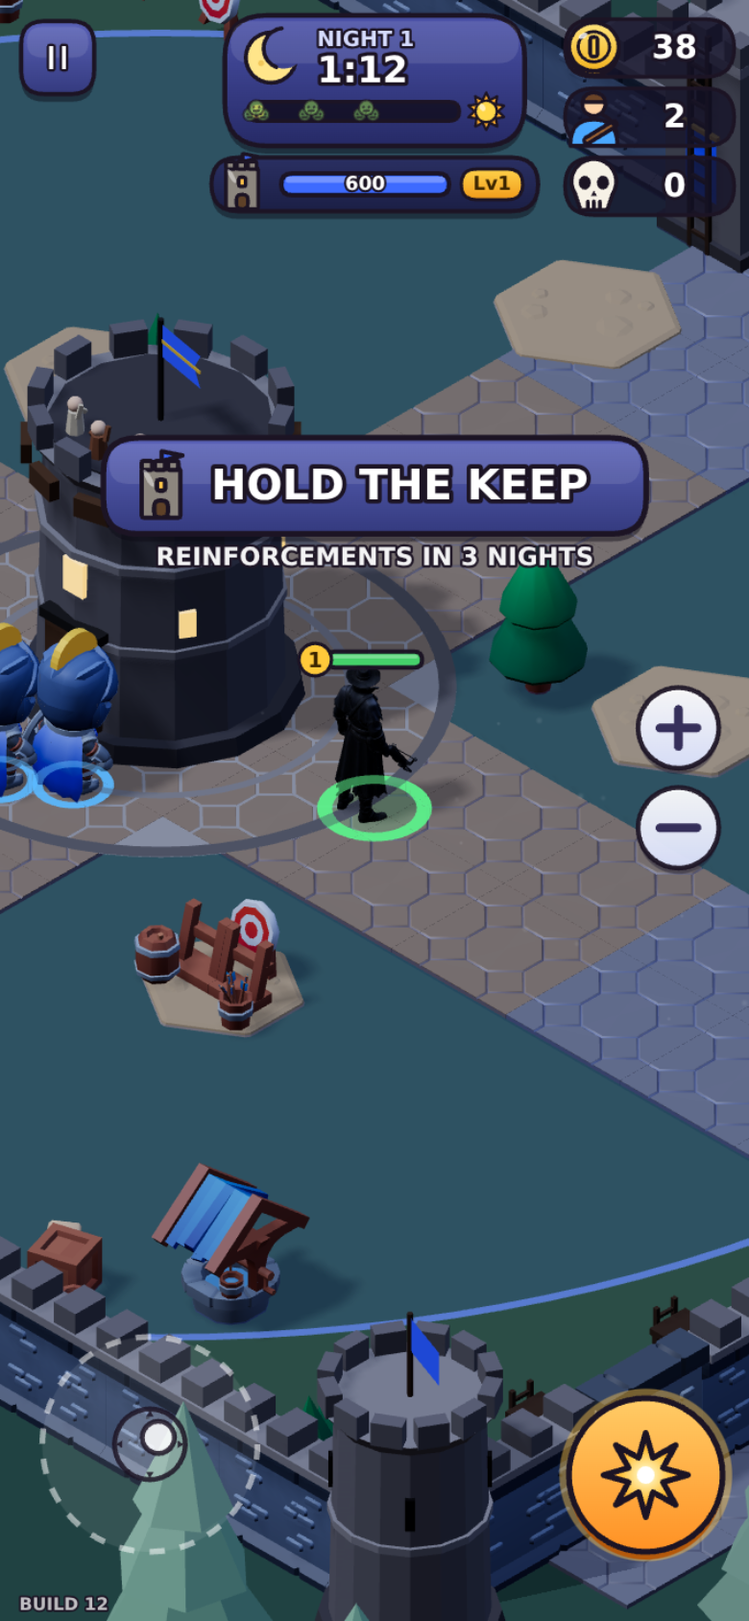
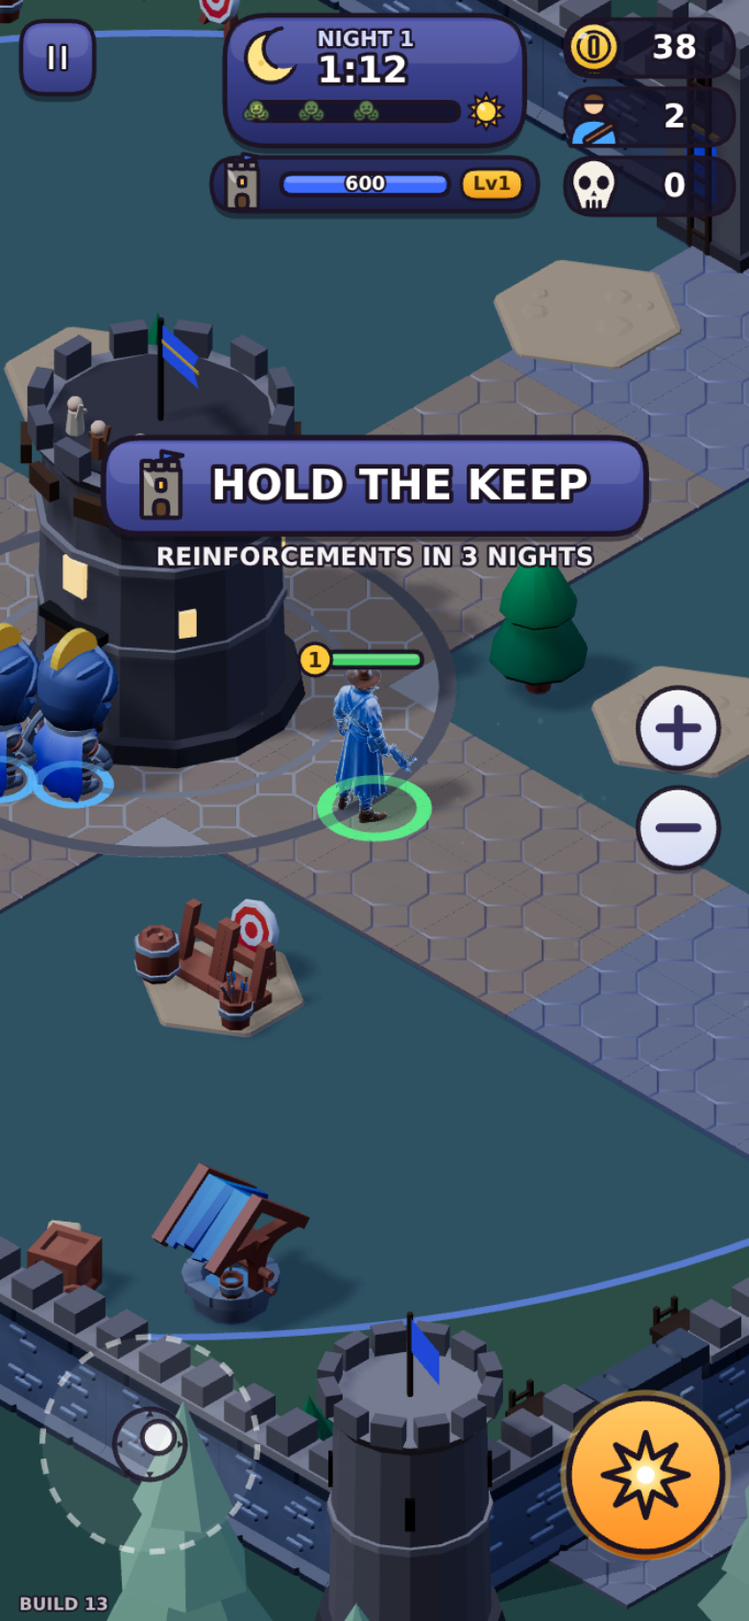
BUILD 13 (4/4): docs, QA evidence
- docs/REBUILD-ROADMAP.md: "Pass BUILD 13" (V8, V4, V9, V10; what was
  not done; QA table; evidence; open items), status paragraph, acceptance
  14 (ASSET_CHARACTER 18/18; the captain brightened by shader) and 17.
- docs/VISUAL-LAYOUT-RESEARCH.md: BUILD 13 status under the §7 table,
  notes in the header and §11.
- qa-evidence/survival-build13/: captain BUILD 12 vs 13 (night and day),
  compare-day0 / fight / overview, the plotsqa section-5 frames, the
  survival-look set, balance (identical to BUILD 12 bar timings).
- qa-evidence/survival-ftue-*: refreshed by envqa (blue captain, BUILD 13).

Gates: harness 67/67, plotsqa 21/21, map 220/220, devqa 25/25, intro,
envqa, fxshots 14/14, layoutqa, glbtest, swtest PASS; survivalshots 26
shots / 0 page errors; survival-look 0 errors; bundlecheck only the
release-signing FAIL.

Changed region(s): [[0.4308, 0.4005, 0.5538, 0.5237], [0.2462, 0.2156, 0.2769, 0.2464], [0.1231, 0.9858, 0.1538, 1.0]]

diff --git a/docs/REBUILD-ROADMAP.md b/docs/REBUILD-ROADMAP.md
@@ -1,7 +1,127 @@
 # Status Rebuild 3D & Survival Milestone 1
 
 **Pembaruan:** 2026-10-18 (Asia/Makassar)
-**Status keseluruhan: MASIH TERBUKA — bukan klaim siap rilis.** Inti rebuild dunia 3D dan loop Survival Milestone 1 sudah terimplementasi. Pada 2026-10-12 arah UI/UX dan threat model dikoreksi mengikuti feedback user; pada 2026-10-15 dilakukan pass analisis gap & bug (lihat bagian "Gap & bug pass 2026-10-15"), lalu pass progres Hunter + level bangunan (lihat "Progres Hunter & level bangunan"), lalu pass menara crossbow (lihat "Menara crossbow"), lalu pass guard yang bisa jatuh (lihat "Guard bisa jatuh"; termasuk perbaikan bug gelombang yang muncul di dalam rumah), dan seluruh gate otomatis dijalankan ulang. Setelah itu user memutuskan **game landscape only** dan meminta brainstorming + design system plan sebelum koding lagi (lihat "Arah desain & orientasi" dan `docs/DESIGN-SYSTEM-PLAN.md`; belum ada perubahan kode game untuk arah ini). Revisi 1 desain (konsep api) ditolak user. Di revisi 2 user memilih konsep **K1 "Benteng Terakhir"**, pola build **jalan ke lingkaran + BUILD**, dan nada **dark stylized**, lalu menyetujui semua rekomendasi aturan dan meminta "pastikan dunianya 3D". K1 kini **terimplementasi sebagai vertical slice** (lihat "K1 Benteng Terakhir — implementasi"); acceptance manusia/perangkat untuk K1 belum ada. Atas feedback user berikutnya, Survival kini dimainkan di **dunia benteng (bailey)** baru, bukan di dalam ruangan mansion (lihat "Dunia benteng untuk Survival"). Setelah itu kedua bookend cerita K1 dibuat: **intro sinematik** di malam pertama dan **adegan bala bantuan tiba** di fajar ke-3 (lihat "Bookend K1"); pemahaman pemain atas keduanya belum diuji. Lalu dibuat **riset UX & replay** dari review pemain (Play Store, Steam, Reddit, dan platform review lain) plus playtest bot "sebagai gamer" (lihat "Riset UX & replay" dan `docs/UX-REPLAY-RESEARCH.md`). Riset itu lalu diperdalam atas permintaan user agar tidak ada coding: v2 menambah review bintang 5, persona, peta perjalanan, dan protokol playtest; v3 menambah pemain Indonesia, analisis loop 3 lapis, dan uji HP kelas bawah. Setelah itu, atas feedback user, dibuat pass perbaikan: benteng diperkecil dan aktor diperbesar, pasukan memakai GLB (KayKit Knight, CC0), efek tembakan/damage diperkuat, kerja bangunan dibuat terlihat, dan UI dirapikan (NIGHT dipisah dari BUILD, panel fajar/akhir menghitung kontribusi). Dari rekomendasi riset, yang terbangun baru R1 sebagian, R18a, dan R19 (lihat "Perbaikan dari feedback user"). Lalu pesan "next" berikutnya dikerjakan sebagai P0 riset **"Momen akhir run"**: bintang 1–3, rekor + NEW BEST!, panel kalah "Ns TO DAWN" + satu tip dari penyebab nyata, dan MVP bangunan (R1–R4, R19; lihat "Momen akhir run"). R5 dan R6 belum. Lalu user melapor "tidak ada perubahan" (2026-10-17): dibuat **pass visual besar** — build yang benar sampai ke layar (service worker hanya di host rilis, preview tanpa cache, stempel BUILD 8), bailey setengah ukuran dengan aktor ×1,6 dan kamera lebih dekat, seluruh horde monster GLB (vertex animation texture), knight dimuat saat boot dengan helm biru berjambul, efek tembakan/damage lebih besar, ballista yang membunuh dan menandai kill-nya, koin mine di HUD, dan penanda gerbang dengan jumlah musuh (lihat "Pass visual besar"). Lalu user meminta lima perbaikan lagi (2026-10-17, "ada beberapa masih perlu di fix"): kamera dijauhkan sedikit dan bisa digeser, plot bangunan ditata rapi, bangunan memakai aset gratis yang diunduh (bukan prototipe), kartu diperkecil, dan trailer pembuka dipertahankan. Kelimanya terimplementasi di **BUILD 9** (lihat "Pass perbaikan BUILD 9"). Lalu user meminta gambar karakter manusia yang cerah dengan senjata terpisah (folder `ASSET_CHARACTER`, gambar konsep AI atas permintaan user) dan aturan gerbang yang benar. Di **BUILD 10** gerbang tertutup menahan tembakan, gerbang hanya terbuka untuk kapten, dan untuk melawan, kapten keluar ke mulut gerbang atau ke luar benteng (lihat "Pass BUILD 10"). Lalu user melapor kapten berjalan sendiri keluar benteng dan bailey terlihat terlalu padat. Di **BUILD 11** kapten tidak lagi digerakkan apa pun selain stick, gerbang hanya terbuka untuk arah stick, setiap jenis bangunan punya warna sendiri, plot terkunci dan tiang hantu disembunyikan, dan props dikurangi (lihat "Pass BUILD 11"). Lalu user melapor ukuran world dan tata letak bangunan masih sama, dan meminta riset visual dan UI/UX game sejenis tanpa coding. Riset itu ada di `docs/VISUAL-LAYOUT-RESEARCH.md` (lihat "Riset visual & tata letak"). User lalu memilih **Opsi B**, meminta peta Rise of Kingdoms dicek dulu, dan meminta kamera yang bisa diperbesar, diperkecil, dan digeser. Ketiganya dikerjakan di **BUILD 12**: bailey ×1,6 dengan distrik per fungsi dan plaza Keep, plus kamera dinamis (lihat "Pass BUILD 12"). Acceptance visual/manual di perangkat, playtest manusia, dan packaging Play masih terbuka. Hasil tiap skrip hanya berlaku untuk cakupan yang benar-benar diuji.
+**Status keseluruhan: MASIH TERBUKA — bukan klaim siap rilis.** Inti rebuild dunia 3D dan loop Survival Milestone 1 sudah terimplementasi. Pada 2026-10-12 arah UI/UX dan threat model dikoreksi mengikuti feedback user; pada 2026-10-15 dilakukan pass analisis gap & bug (lihat bagian "Gap & bug pass 2026-10-15"), lalu pass progres Hunter + level bangunan (lihat "Progres Hunter & level bangunan"), lalu pass menara crossbow (lihat "Menara crossbow"), lalu pass guard yang bisa jatuh (lihat "Guard bisa jatuh"; termasuk perbaikan bug gelombang yang muncul di dalam rumah), dan seluruh gate otomatis dijalankan ulang. Setelah itu user memutuskan **game landscape only** dan meminta brainstorming + design system plan sebelum koding lagi (lihat "Arah desain & orientasi" dan `docs/DESIGN-SYSTEM-PLAN.md`; belum ada perubahan kode game untuk arah ini). Revisi 1 desain (konsep api) ditolak user. Di revisi 2 user memilih konsep **K1 "Benteng Terakhir"**, pola build **jalan ke lingkaran + BUILD**, dan nada **dark stylized**, lalu menyetujui semua rekomendasi aturan dan meminta "pastikan dunianya 3D". K1 kini **terimplementasi sebagai vertical slice** (lihat "K1 Benteng Terakhir — implementasi"); acceptance manusia/perangkat untuk K1 belum ada. Atas feedback user berikutnya, Survival kini dimainkan di **dunia benteng (bailey)** baru, bukan di dalam ruangan mansion (lihat "Dunia benteng untuk Survival"). Setelah itu kedua bookend cerita K1 dibuat: **intro sinematik** di malam pertama dan **adegan bala bantuan tiba** di fajar ke-3 (lihat "Bookend K1"); pemahaman pemain atas keduanya belum diuji. Lalu dibuat **riset UX & replay** dari review pemain (Play Store, Steam, Reddit, dan platform review lain) plus playtest bot "sebagai gamer" (lihat "Riset UX & replay" dan `docs/UX-REPLAY-RESEARCH.md`). Riset itu lalu diperdalam atas permintaan user agar tidak ada coding: v2 menambah review bintang 5, persona, peta perjalanan, dan protokol playtest; v3 menambah pemain Indonesia, analisis loop 3 lapis, dan uji HP kelas bawah. Setelah itu, atas feedback user, dibuat pass perbaikan: benteng diperkecil dan aktor diperbesar, pasukan memakai GLB (KayKit Knight, CC0), efek tembakan/damage diperkuat, kerja bangunan dibuat terlihat, dan UI dirapikan (NIGHT dipisah dari BUILD, panel fajar/akhir menghitung kontribusi). Dari rekomendasi riset, yang terbangun baru R1 sebagian, R18a, dan R19 (lihat "Perbaikan dari feedback user"). Lalu pesan "next" berikutnya dikerjakan sebagai P0 riset **"Momen akhir run"**: bintang 1–3, rekor + NEW BEST!, panel kalah "Ns TO DAWN" + satu tip dari penyebab nyata, dan MVP bangunan (R1–R4, R19; lihat "Momen akhir run"). R5 dan R6 belum. Lalu user melapor "tidak ada perubahan" (2026-10-17): dibuat **pass visual besar** — build yang benar sampai ke layar (service worker hanya di host rilis, preview tanpa cache, stempel BUILD 8), bailey setengah ukuran dengan aktor ×1,6 dan kamera lebih dekat, seluruh horde monster GLB (vertex animation texture), knight dimuat saat boot dengan helm biru berjambul, efek tembakan/damage lebih besar, ballista yang membunuh dan menandai kill-nya, koin mine di HUD, dan penanda gerbang dengan jumlah musuh (lihat "Pass visual besar"). Lalu user meminta lima perbaikan lagi (2026-10-17, "ada beberapa masih perlu di fix"): kamera dijauhkan sedikit dan bisa digeser, plot bangunan ditata rapi, bangunan memakai aset gratis yang diunduh (bukan prototipe), kartu diperkecil, dan trailer pembuka dipertahankan. Kelimanya terimplementasi di **BUILD 9** (lihat "Pass perbaikan BUILD 9"). Lalu user meminta gambar karakter manusia yang cerah dengan senjata terpisah (folder `ASSET_CHARACTER`, gambar konsep AI atas permintaan user) dan aturan gerbang yang benar. Di **BUILD 10** gerbang tertutup menahan tembakan, gerbang hanya terbuka untuk kapten, dan untuk melawan, kapten keluar ke mulut gerbang atau ke luar benteng (lihat "Pass BUILD 10"). Lalu user melapor kapten berjalan sendiri keluar benteng dan bailey terlihat terlalu padat. Di **BUILD 11** kapten tidak lagi digerakkan apa pun selain stick, gerbang hanya terbuka untuk arah stick, setiap jenis bangunan punya warna sendiri, plot terkunci dan tiang hantu disembunyikan, dan props dikurangi (lihat "Pass BUILD 11"). Lalu user melapor ukuran world dan tata letak bangunan masih sama, dan meminta riset visual dan UI/UX game sejenis tanpa coding. Riset itu ada di `docs/VISUAL-LAYOUT-RESEARCH.md` (lihat "Riset visual & tata letak"). User lalu memilih **Opsi B**, meminta peta Rise of Kingdoms dicek dulu, dan meminta kamera yang bisa diperbesar, diperkecil, dan digeser. Ketiganya dikerjakan di **BUILD 12**: bailey ×1,6 dengan distrik per fungsi dan plaza Keep, plus kamera dinamis (lihat "Pass BUILD 12"). Lalu user menulis "lanjut": 7 senjata `ASSET_CHARACTER` yang tersisa dibuat (kini 18/18), dan empat usulan "murah tapi terlihat jelas" dari riset §7 dikerjakan di **BUILD 13**: kapten terang (V8), label hanya saat dekat (V4), angka damage kecil yang digabung (V9), dan gerbang malam ini terlihat di siang hari (V10) (lihat "Pass BUILD 13"). Acceptance visual/manual di perangkat, playtest manusia, dan packaging Play masih terbuka. Hasil tiap skrip hanya berlaku untuk cakupan yang benar-benar diuji.
+
+## Pass BUILD 13 — kapten terang, label dekat, angka damage, gerbang malam ini (2026-10-18)
+
+**Pesan user:** "lanjut". Saya baca sebagai: lanjutkan pekerjaan yang tertunda. Keputusan BUILD 12 yang saya ambil sendiri (riset §11.4) tidak ditolak, jadi tetap dipakai.
+
+Stempel di layar kini **BUILD 13**, service worker `duskhold-v13`.
+
+Pekerjaan ini terdiri dari dua bagian:
+1. **ASSET_CHARACTER:** 7 senjata yang tersisa sudah dibuat: kapak undead, palu Breaker, pedang Night Lord, crossbow kapten Lv2/Lv3, dan crossbow guard Lv2/Lv3. Folder kini lengkap **18/18** (6 karakter + 12 senjata), commit `e374747`. Semuanya tetap gambar konsep AI; belum ada GLB.
+2. **BUILD 13:** empat usulan "murah tapi terlihat jelas" dari riset §7, yaitu V8, V4, V9, dan V10.
+
+### V8 — kapten paling terang
+
+Tekstur GLB kapten (Tripo) hampir hitam. Atlas warnanya (2048×2048) punya luminansi rata-rata 0,107 dan 81 % pikselnya di bawah 0,15 (skala 0–1). Atlas itu juga terdiri dari ribuan pulau UV kecil, jadi tidak bisa diwarnai per bagian.
+
+Byte GLB tidak diubah. Sebagai gantinya, shader kapten memetakan terang-gelap teksturnya sendiri ke palet `ASSET_CHARACTER` opsi 1:
+
+| Bagian | Warna |
+|---|---|
+| Tabard/mantel | navy → biru kerajaan `#216aad` → biru langit |
+| Topi dan sepatu bot (dipilih dari tinggi badan di bind pose) | kulit cokelat `#68412d` |
+| Bagian tekstur yang hangat | emas `#e6b459`; di wajah menjadi warna kulit |
+| Rim light | biru-putih, lebih kuat di malam |
+
+Tampilannya dipasang per fase lewat `CAPTAIN_LOOK` (siang/malam), hanya di mode Survival. Di mode lain, termasuk `?legacy=1`, tampilan ini mati.
+
+**Hasil** (rata-rata luminansi piksel kapten saja, 0–255; frame dengan kapten dikurangi frame tanpa kapten; `survival-plotsqa`, 844×390, zoom 1,6×):
+
+| Fase | Tekstur asli (BUILD 12) | BUILD 13 |
+|---|---|---|
+| Malam | 19,5 | 86,0 |
+| Siang | 27,9 | 88,0 |
+
+Versi pertama shader (semua biru terang, rim kuat) saya tolak sendiri setelah melihat screenshot-nya: kapten tampak seperti hantu/hologram biru. Versi yang dipakai menjaga bayangan tetap gelap dan memberi warna kulit cokelat pada topi dan sepatu bot.
+
+File: `valen3d.js` (`setLook`, `lookState`), `world3d.js` (`CAPTAIN_LOOK`, `_syncLighting`, diagnostics `captainLook`).
+
+### V4 — label hanya saat dekat
+
+| Sebelum (BUILD 11–12) | Sekarang |
+|---|---|
+| 3 lingkaran kosong terdekat selalu menampilkan nama, sejauh apa pun | Nama **+ biaya** (merah kalau kurang) hanya untuk lingkaran ≤ 380 px dari kapten (± satu lingkaran). **Maksimal 2** sekaligus. Lingkaran lain hanya ikon di atas warnanya |
+| Pill status (emas / kayu / prajurit / kill) di semua bangunan di layar | Hanya untuk bangunan ≤ 560 px dari kapten, atau bangunan tempat kapten berdiri |
+| Label sama di semua zoom | Di zoom overview (≤ 0,62×) hanya ikon, tanpa nama dan pill |
+
+Panah upgrade tetap tampil di semua bangunan yang bisa di-upgrade.
+
+Tombol "lihat semua" dari riset tidak dibuat. Zoom overview (pinch keluar) sudah memperlihatkan semua titik sebagai ikon, dan pola FTUE yang dipilih user meminta tanpa tombol tambahan.
+
+File: `ui/survival.js` (`PLOT_NAME_REACH`, `PLOT_NAMES_MAX`, `STATUS_REACH`, `OVERVIEW_ZOOM`, `drawPlotLabel`, `drawDayWorldLayer`).
+
+### V9 — angka damage lebih kecil, di atas kepala, digabung
+
+| | BUILD 12 | BUILD 13 |
+|---|---|---|
+| Ukuran kill / heavy / di wilayah panji / biasa | 40 / 32 / 28 / 23 px | **26 / 22 / 18 / 16 px** |
+| Posisi | di dada | **di atas kepala** (tinggi dada ×1,55), ikut bergerak bersama tubuhnya |
+| Pukulan beruntun | satu angka per pukulan | pukulan ke tubuh yang sama dalam **0,38 detik** dijumlah jadi satu angka. Angka itu membesar lagi sesaat ("pop") dan memakai grade terkuat (kill > heavy > biasa) |
+
+Angka yang muncul di atas angka lain atau di atas bar HP kapten naik satu langkah (maksimal 3 langkah) dan tetap di langkah itu, jadi kerumunan di gerbang terbaca sebagai tumpukan pendek, bukan angka yang saling menimpa.
+
+Efek hit (kilat, cincin, percikan) tidak diubah. Jumlah angka acak yang diambil per pukulan juga tetap sama, jadi run balance ber-seed identik dengan BUILD 12.
+
+File: `game/survival.js` (`DMG_NUMBER`, `pushDamageNumber`, `_updateFx`), `ui/survival.js` (`drawFloaters`, `DMG_LANES`).
+
+### V10 — gerbang malam ini terlihat di siang hari
+
+`tonightPlan()` menghitung serangan malam berikutnya per gerbang. Rencananya sama dengan yang dipakai `updateWaves()`: gelombang swarm 1–3, 2 Individual, dan Breaker di gerbang utama (1 mulai malam 2, 2 di malam 3).
+
+Di siang hari:
+- gerbang yang ada di layar mendapat **badge merah** di atasnya: 🌙, ikon swarm ×N, ikon Individual, dan ikon Breaker;
+- gerbang di luar layar ditunjuk dengan **penunjuk merah di tepi layar**, lengkap dengan jumlah totalnya;
+- keduanya tidak tampil di bawah panel hadiah fajar.
+
+Contoh malam 2:
+- gerbang barat: 24;
+- postern NW: 27;
+- gerbang selatan: 27 + 1 Individual + 1 Breaker;
+- gerbang utara: 1 Individual.
+
+File: `game/survival.js` (`tonightPlan`), `ui/survival.js` (`drawTonightBadge`, `drawDayWorldLayer`).
+
+### Yang tidak dikerjakan di pass ini
+
+- **V2** (ballista tidak lagi merah): ballista tetap merah, sesuai keputusan BUILD 12 (riset §11.4).
+- **V5** (diet HUD): HUD siang sudah ringkas sejak BUILD 9–12.
+- **V1, V3, V6, V7**: butuh pass aset atau tata letak.
+- **ASSET_CHARACTER:** konversi gambar → GLB, socket senjata di tangan, dan upgrade senjata pasukan di game.
+
+### QA yang dijalankan (BUILD 13)
+
+| Perintah | Hasil |
+|---|---|
+| `node tools/harness.mjs` | **67/67 PASS** (+2 cek baru: V10 ramalan siang = spawn malam 2 dan 3 per gerbang; V9 tiga pukulan dalam 0,4 detik = satu angka "30", mulai di atas kepala, ikut tubuhnya) |
+| `node tools/survival-plotsqa.mjs` | **21/21 PASS** (+3 cek baru: V8 piksel kapten malam 86,0 vs tekstur asli 19,5 dan siang 88,0 vs 27,9; V4 tiga lingkaran dalam jangkauan → 2 nama, overview → 0 nama dan 0 pill; V10 keempat gerbang malam 2 ditandai, urutannya sama dengan rencana) |
+| `node tools/survival-map.mjs` | **220/220** (tata letak tidak berubah) |
+| `node tools/survival-devqa.mjs` | **25/25 PASS** |
+| `node tools/survival-intro.mjs` | **PASS** |
+| `node tools/envqa.mjs --mode=3d-smoke` | **PASS** (bukti FTUE `qa-evidence/survival-ftue-*` ikut diperbarui: kapten biru, stempel BUILD 13) |
+| `node tools/survival-fxshots.mjs` | **14/14 PASS** |
+
+Setelah angka damage dibuat bertumpuk (perubahan terakhir, hanya kode gambar), `devqa`, `envqa`, dan `fxshots` dijalankan lagi dan hasilnya tetap sama.
+| `node tools/layoutqa.mjs`, `glbtest.mjs`, `swtest.mjs` | **PASS** (`swtest` dengan `duskhold-v13`) |
+| `node tools/survivalshots.mjs --landscape` | 26 shot, 0 page error |
+| `node tools/survival-look.mjs` | 0 error (`day0`, `day`, `build`, `gate`, `fight`, `overview`, `closeup`) |
+| `node tools/bundlecheck.mjs` | hanya 1 FAIL lama (fingerprint signing release, menunggu kunci upload) |
+| `node tools/survival-balance.mjs --seeds=5 --duration=72` | **sama persis dengan BUILD 12** di 30 baris run dan SUMMARY (selain waktu proses): idle 0/5, active 0/5, builder 5/5 ★★★, tower-builder 5/5 ★★★, hunter-builder 5/5 ★★★, keep-builder 0/5. Aturan main tidak berubah |
+
+**Bukti** (`qa-evidence/survival-build13/`):
+- `captain-compare.png`: kapten BUILD 12 vs BUILD 13, malam dan siang, frame yang sama;
+- `compare-day0.png`, `compare-fight.png`, `compare-overview.png`: BUILD 12 vs BUILD 13 dari skrip `survival-look` di momen yang sama;
+- `captain-day.png`, `names-near.png` (2 nama + 1 ikon di distrik tambang), `overview-tonight.png` (badge gerbang malam ini): dari `survival-plotsqa`;
+- `day0.png`, `day.png`, `build.png`, `fight.png`, `overview.png`, `closeup.png`;
+- `balance-5seed-72s.txt`.
+
+**Belum / terbuka:**
+- Penilaian manusia di HP atas keempat perubahan: apakah kapten terbaca tanpa terlihat seperti hantu atau hologram, apakah nama yang hanya muncul saat dekat masih cukup untuk mengenali bangunan, apakah angka yang lebih kecil masih terasa kuat, dan apakah pemain bisa menyebut gerbang malam ini sebelum menekan NIGHT (uji riset §8).
+- Di layar landscape 844×390, penunjuk merah gerbang di tepi kiri bawah bisa berdekatan dengan cincin stick; di zoom overview penunjuk atas bisa menempel pada chip CAPTAIN.
+- Angka damage yang naik langkah bisa masuk ke bawah pill NIGHT saat gerbang ada di tepi atas layar.
+- Kapten masih model Tripo yang sama. Shader hanya mewarnai ulang teksturnya; detail seperti sabuk atau sarung tangan tidak bisa diberi warna sendiri.
 
 ## Pass BUILD 12 — tata letak Opsi B + kamera dinamis (2026-10-18)
 
@@ -92,7 +212,7 @@ Denah: `qa-evidence/survival-build12/plan.png`.
 - Jalan ke gerbang ±60 % lebih jauh. Bot tetap menang, tetapi apakah terasa lambat bagi pemain belum diuji. Lari +15 % disiapkan sebagai opsi, tidak dipasang.
 - Frame time zoom terjauh (seluruh bailey + hutan di layar) di HP kelas bawah belum diukur. Di Chromium headless (SwiftShader) 1 frame ±5–6 ms di kedua zoom.
 - Keputusan §9 yang saya ambil sendiri (×1,6, ballista di halaman, tanpa rumah warga, panji radius, warna V2 tetap) menunggu konfirmasi user (riset §11.4).
-- Kapten di game masih gelap (siluet hitam). Ini sudah begitu sejak BUILD 8 dan tidak diubah di pass ini (lihat acceptance 14).
+- Kapten di game masih gelap (siluet hitam). Ini sudah begitu sejak BUILD 8 dan tidak diubah di pass ini (lihat acceptance 14). *(Diperbarui: dicerahkan di BUILD 13, V8.)*
 
 ## Riset visual & tata letak (2026-10-17) — riset saja, belum ada kode
 
@@ -1093,9 +1213,10 @@ Ini screenshot checkpoint, bukan rekaman, dan bukan review di perangkat fisik.
 11. **Pass visual besar 2026-10-17 ("tidak ada perubahan"):** terimplementasi dan lolos gate otomatis (lihat "Pass visual besar"). Belum: konfirmasi dari user bahwa layar menampilkan "BUILD 8" dan kelima poin kini terlihat, penilaian rasa (ukuran benteng vs aktor, horde GLB, efek, kerja bangunan, penanda gerbang), dan frame time horde instanced + knight di HP kelas bawah.
 12. **Pass perbaikan BUILD 9 2026-10-17 (kamera, plot rapi, aset bangunan, kartu, trailer):** terimplementasi dan lolos gate otomatis (lihat "Pass perbaikan BUILD 9"). Belum: konfirmasi dari user bahwa layar menampilkan "BUILD 9"; penilaian di HP nyata atas jarak kamera dan rasa geser/pinch, kerapian denah, kecocokan aset KayKit dengan gaya benteng, ukuran dock, dan apakah intro tiap run mengganggu; frame time model kit di HP kelas bawah.
 13. **Pass BUILD 10 2026-10-17 (aturan gerbang):** gerbang tertutup menahan tembakan, gerbang terbuka hanya untuk kapten, musuh mengejar di luar, istirahat di balik tembok, guard di menara gerbang, dan tembakan melengkung lewat tembok. Semuanya terimplementasi dan lolos gate otomatis (lihat "Pass BUILD 10"). Belum: konfirmasi user bahwa layar menampilkan "BUILD 10"; rasa keluar benteng dan ritme gerbang/istirahat di HP nyata; keterbacaan guard di puncak menara.
-14. **ASSET_CHARACTER 2026-10-17:** 11 dari 18 gambar konsep sudah dibuat (6 karakter + 5 senjata). Masih terbuka: 7 senjata yang menyusul, konversi gambar → GLB, socket senjata di tangan, upgrade senjata pasukan di game, dan penggantian kapten gelap di game.
+14. **ASSET_CHARACTER 2026-10-17/18:** 18 dari 18 gambar konsep sudah dibuat (6 karakter + 12 senjata; 7 senjata terakhir di commit `e374747`). Kapten gelap di game kini dicerahkan lewat shader dengan palet opsi 1 (BUILD 13, V8). Modelnya tidak diganti. Masih terbuka: konversi gambar → GLB, socket senjata di tangan, upgrade senjata pasukan di game, dan penilaian manusia atas kecocokan gambar dengan gaya game.
 15. **Pass BUILD 11 2026-10-17 (bug kapten + bailey padat):** dorongan tanpa input dihapus, gerbang hanya terbuka untuk arah stick, warna per bangunan, plot terkunci dan tiang hantu disembunyikan, label nama di pad, props dikurangi. Semuanya lolos gate otomatis (lihat "Pass BUILD 11"). Belum: konfirmasi user bahwa bug tidak muncul lagi di perangkatnya dan layar menampilkan "BUILD 11"; penilaian manusia atas kepadatan dan keterbacaan bangunan.
 16. **Pass BUILD 12 2026-10-18 (Opsi B + kamera dinamis):** bailey ×1,6 dengan distrik per fungsi, plaza Keep, wilayah panji berupa radius, dekor distrik, dan kamera zoom 0,42–1,6× (pinch di mana saja, tombol +/−, roda, keyboard, geser + lemparan). Semuanya lolos gate otomatis (lihat "Pass BUILD 12"). Belum: konfirmasi user bahwa layar menampilkan "BUILD 12"; penilaian manusia atas kelapangan, keterbacaan distrik, jarak jalan, dan rasa kamera di HP nyata; frame time zoom terjauh di HP kelas bawah; konfirmasi keputusan §9 yang diambil sendiri.
+17. **Pass BUILD 13 2026-10-18 (V8, V4, V9, V10):** kapten terang, label hanya saat dekat, angka damage kecil yang digabung, dan gerbang malam ini terlihat di siang hari. Semuanya lolos gate otomatis (lihat "Pass BUILD 13"). Belum: konfirmasi user bahwa layar menampilkan "BUILD 13"; penilaian manusia apakah kapten kini terbaca tanpa terlihat seperti hantu atau hologram, apakah label dekat cukup untuk mengenali bangunan, apakah angka kecil masih terasa kuat, dan apakah pemain bisa menyebut gerbang malam ini sebelum menekan NIGHT (uji riset §8).
 
 ## Aturan laporan
 

diff --git a/docs/VISUAL-LAYOUT-RESEARCH.md b/docs/VISUAL-LAYOUT-RESEARCH.md
@@ -4,6 +4,8 @@
 
 **Pembaruan 2026-10-18:** user memilih **Opsi B** dan meminta peta Rise of Kingdoms dicek dulu, plus kamera yang bisa diperbesar, diperkecil, dan digeser. Hasil cek RoK ada di **§11**. Opsi B + kamera dinamis dikerjakan di **BUILD 12** (lihat `docs/REBUILD-ROADMAP.md`, "Pass BUILD 12"). Isi §0–§10 di bawah ini dibiarkan seperti saat riset (angka "sekarang" = BUILD 11).
 
+**Pembaruan 2026-10-18 (2):** user menulis "lanjut". **V4, V8, V9, dan V10** dari §7 dikerjakan di **BUILD 13** (lihat `docs/REBUILD-ROADMAP.md`, "Pass BUILD 13", dan status di bawah tabel §7). V1, V2, V3, V5, V6, dan V7 belum.
+
 Permintaan user setelah BUILD 11: *"masih sama ukuran world nya, tata letak bangunan masih sama, coba kamu research dulu visual game building dan combat seperti ini jangan coding dulu, cari detail ui ux dan visual nya, bandingkan dengan game ini"*.
 
 Usulan di §6–§7 **belum dikerjakan**. Pengerjaan menunggu pilihan user (§9).
@@ -436,6 +438,18 @@ Keep berdiri di plaza batu r230. Empat jalan selebar 220 px menuju gerbang; seka
 
 **Prioritas murah tapi terlihat jelas:** V2, V4, V5, V8, V9. **Prioritas yang menyatu dengan opsi tata letak:** V6, V7, V10. V1 dan V3 perlu pass aset (KayKit punya variasi warna dan prop).
 
+**Status (BUILD 13, 2026-10-18):**
+
+| # | Status | Catatan |
+|---|---|---|
+| V8 | dikerjakan | Shader memetakan terang-gelap tekstur kapten ke palet opsi 1: tabard biru, topi + bot cokelat, rim light biru. Luminansi piksel kapten malam 19,5 → 86,0 dan siang 27,9 → 88,0 (dari 255). GLB tidak diubah |
+| V4 | dikerjakan | Nama + biaya hanya ≤ 380 px dari kapten, maksimal 2. Pill status ≤ 560 px. Zoom overview hanya ikon. Tombol "lihat semua" diganti zoom overview |
+| V9 | dikerjakan | Ukuran 26/22/18/16 px (dulu 40/32/28/23). Mulai di atas kepala dan ikut tubuhnya. Pukulan dalam 0,38 detik digabung. Angka yang menimpa angka lain naik satu langkah (maks. 3) |
+| V10 | dikerjakan (bagian info gelombang) | Badge merah per gerbang (swarm ×N, Individual, Breaker) atau penunjuk di tepi layar, di siang hari. Overview pinch-out sudah ada sejak BUILD 12 |
+| V2 | tidak | Ballista tetap merah (keputusan §11.4) |
+| V5 | tidak | HUD siang sudah ringkas |
+| V1, V3, V6, V7 | belum | Butuh pass aset atau tata letak |
+
 ---
 
 ## 8. Cara menilai setelah dikerjakan (usulan acceptance)
@@ -569,7 +583,7 @@ Tautan ada di §11.5.
 | — | Zoom pilihan pemain disimpan (`save.survival.camZoom`) | `survival.js` |
 
 **Yang tidak diambil:**
-- **Layer UI per level zoom:** label tetap sama di semua zoom. Ini kandidat lanjutan, bersama V4/V5 (label hanya saat dekat).
+- **Layer UI per level zoom:** label tetap sama di semua zoom. Ini kandidat lanjutan, bersama V4/V5 (label hanya saat dekat). *(Diperbarui: BUILD 13 menambah satu layer. Di zoom overview hanya ikon yang tampil.)*
 - **Menu radial zoom siap pakai:** diganti langkah ×1,35 per tap atau tombol.
 - **Kota yang bebas disusun:** posisi plot tetap, karena posisi = fungsi + jarak gerbang.
 - **Rumah warga:** tidak dibuat. Warna rumah KayKit (biru/hijau/merah/kuning) bentrok dengan kode warna bangunan, dan dalam cerita K1 warga berlindung di dalam Keep.
@@ -582,7 +596,7 @@ User hanya memilih "B". Pertanyaan §9 lainnya saya putuskan seperti ini:
 3. **Tanpa rumah warga** (alasan di §11.3).
 4. **Wilayah panji = radius dari Keep**, dipotong di dinding: 900 / 1100 / 1400 px per level Keep. Lv3 menutup seluruh bailey. Jumlah plot per level tetap 9 / 13 / 15.
 5. **Warna V2 tidak diubah:** ballista tetap merah.
-6. **Paket UI V4/V5 belum dikerjakan.**
+6. **Paket UI V4/V5 belum dikerjakan.** *(Diperbarui: V4 dikerjakan di BUILD 13. V5 tidak, karena HUD siang sudah ringkas.)*
 7. **Ballista atap Keep** dinaikkan dari 440/500 menjadi 600/700 px. Gerbang kini lebih jauh, 773 px utara/selatan dan 1053 px barat/timur.
 8. **Kapten mulai di 240 px timur Keep, di jalan timur.** Jangkauan kartu Keep dinaikkan ke 250 px (plaza + kerb), jadi kartu Keep tetap muncul pertama di pagi hari.
 
